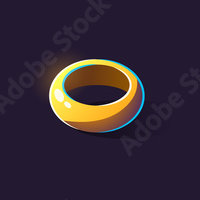
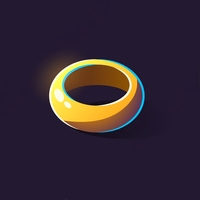
Finalized, Watermarks removed!

Changed region(s): [[0.24, 0.27, 0.75, 0.69], [0.27, 0.54, 0.36, 0.63], [0.48, 0.42, 0.51, 0.45]]

diff --git a/src/components/SingleCard.jsx b/src/components/SingleCard.jsx
@@ -20,7 +20,7 @@ export default function SingleCard( {card, handleChoice, flipped, disabled} ) {
         <img 
           className='back' 
           onClick={handleClick} 
-          src='/img/cover.png' 
+          src='/img/cover-1.png' 
           alt="card back" 
         />
       </div>
